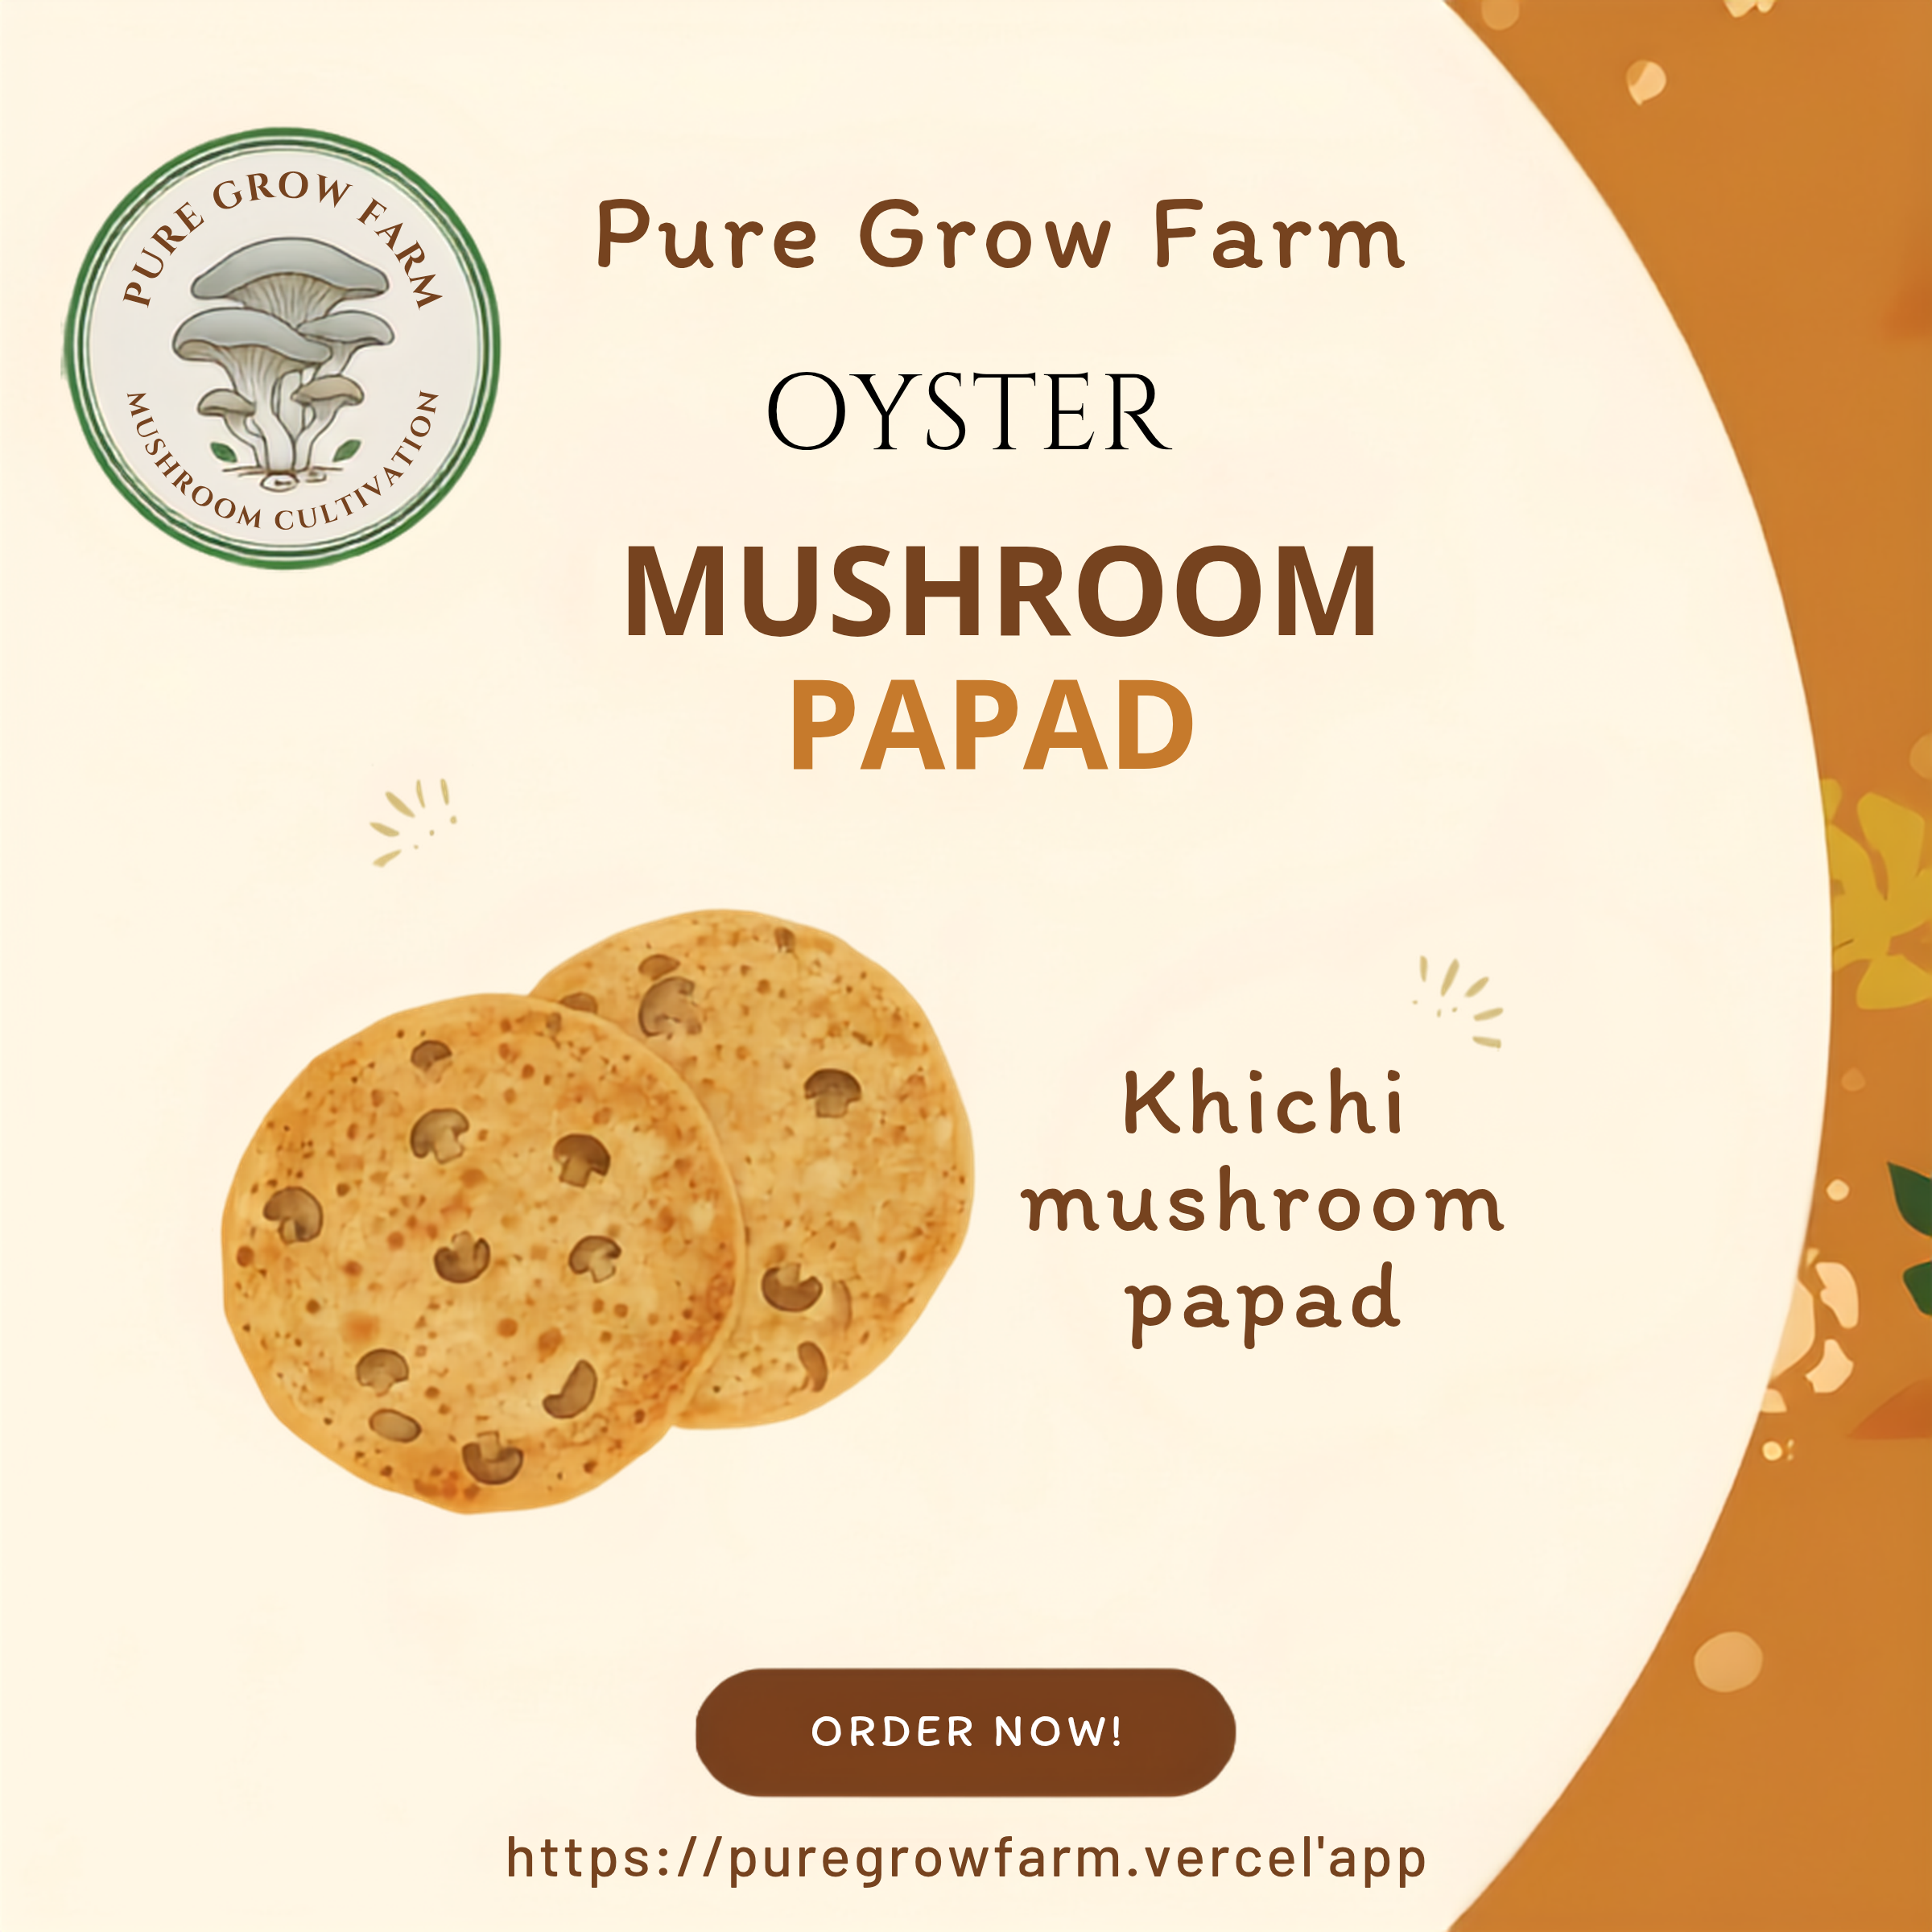
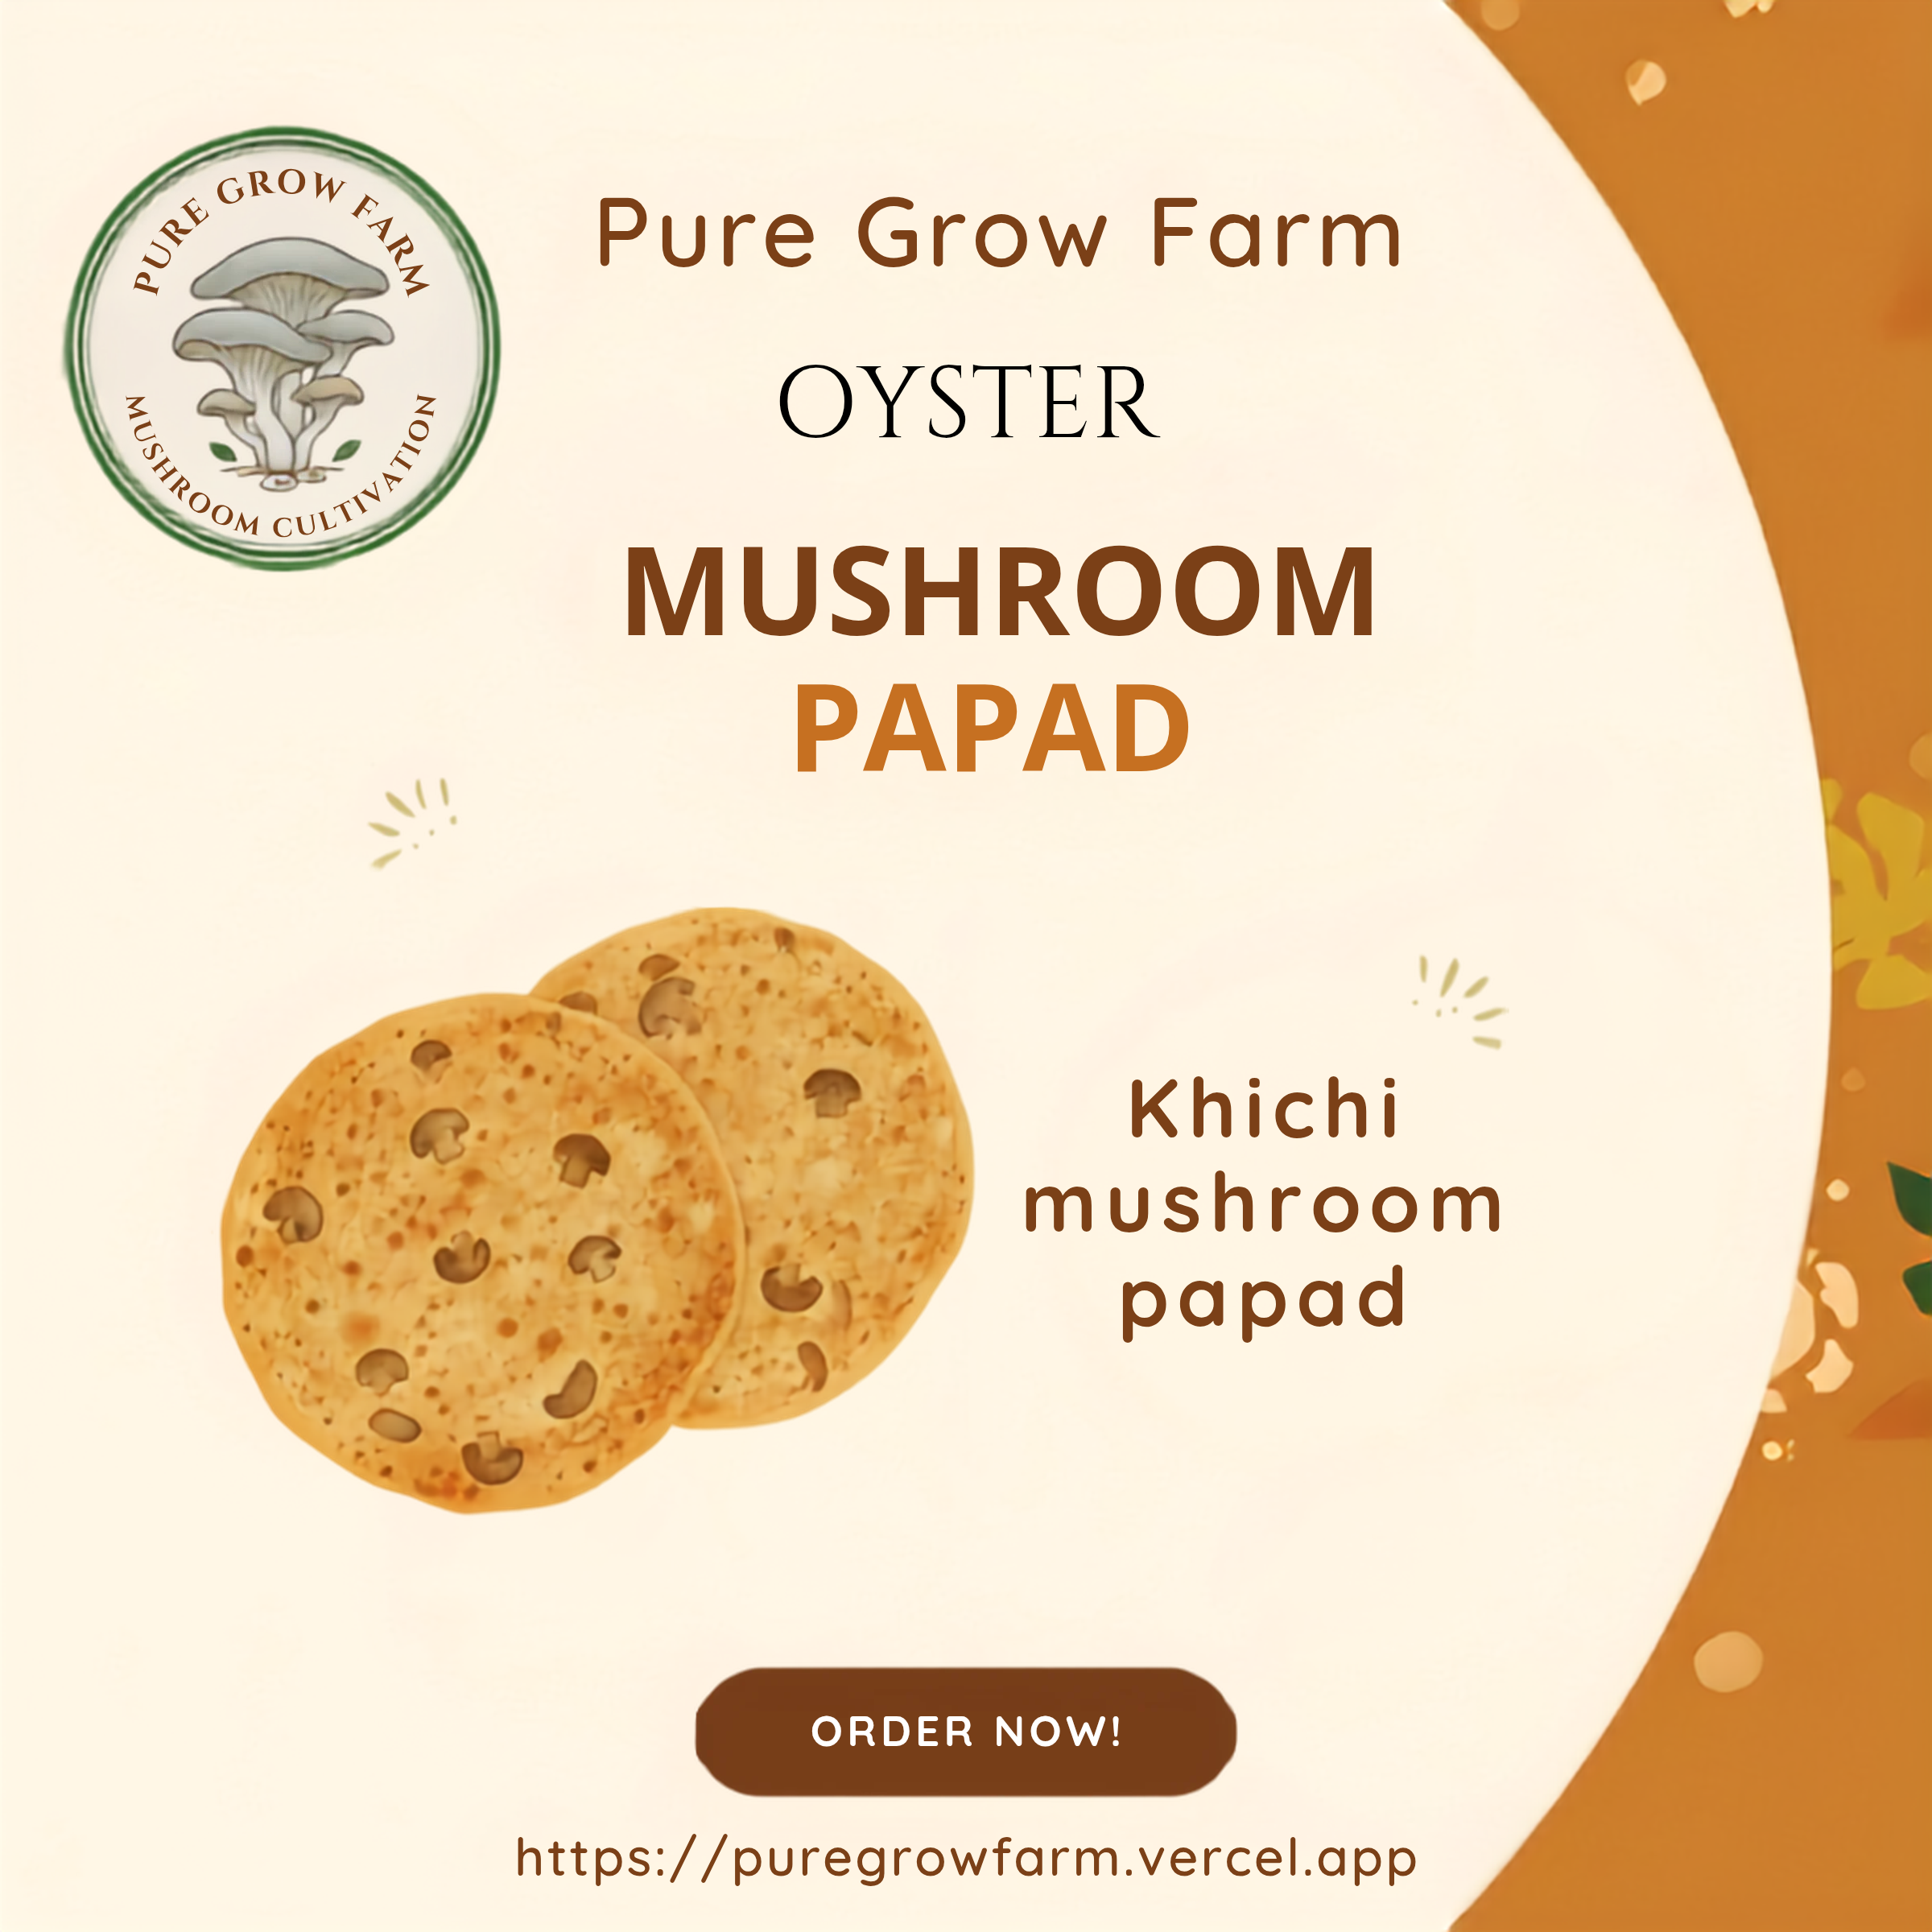
update

diff --git a/index.html b/index.html
@@ -600,11 +600,11 @@ const farmContact = "9067891039 Soham Gajera | 8200145732 Jeet Gajera";
 let productPaymentOpened = false;
 
 const products = [
-  { id: 1, name: "Fresh Green Oyster Mushroom", price: 180, unit: "1 kg", image: "mushroom/Screenshot 2025-10-24 154001.png", detail: "Picked fresh, chilled and delivered within 24-48 hours." },
-  { id: 2, name: "Dried Oyster Mushroom", price: 320, unit: "100 g pack", image: "mushroom/oyst dry.webp", detail: "Slow-dried to preserve flavor and nutrients." },
-  { id: 3, name: "Oyster Mushroom Powder", price: 250, unit: "100 g pack", image: "mushroom/oyster powder.png", detail: "Mushroom powder for soup, curry, health mix and snacks." },
-  { id: 4, name: "Mushroom Khakhra", price: 140, unit: "1 pack", image: "mushroom/bulk.png", detail: "Crispy khakhra prepared with oyster mushroom powder." },
-  { id: 5, name: "Mushroom Papad", price: 120, unit: "1 pack", image: "mushroom/bulk.png", detail: "Papad with mushroom nutrition and farm-made taste." },
+  { id: 1, name: "Fresh Green Oyster Mushroom", price: 180, unit: "1kg", image: "mushroom/Screenshot 2025-10-24 154001.png", detail: "Picked fresh, chilled and delivered within 24-48 hours." },
+  { id: 2, name: "Dried Oyster Mushroom", price: 800, unit: "1kg pack", image: "mushroom/oyst dry.webp", detail: "Slow-dried to preserve flavor and nutrients." },
+  { id: 3, name: "Oyster Mushroom Powder", price: 130, unit: "100gm pack", image: "mushroom/oyster powder.png", detail: "Mushroom powder for soup, curry, health mix and snacks." },
+  { id: 4, name: "Methi Mushroom Khakhra", price: 70, unit: "200gm pack", image: "Methi khakhra 2.png", detail: "Crispy khakhra prepared with oyster mushroom powder." },
+ // { id: 5, name: "Adad Mushroom Papad", price: 120, unit: "1 pack", image: "mushroom/bulk.png", detail: "Papad with mushroom nutrition and farm-made taste." },
   { id: 6, name: "Bulk and Wholesale", price: 0, unit: "Custom", bulk: true, image: "mushroom/bulk.png", detail: "Supply for restaurants, retailers and local markets. Contact farm for custom rate and quantity." }
 ];
 